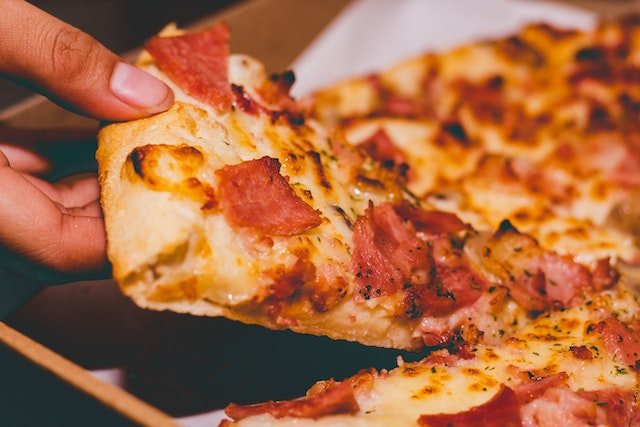
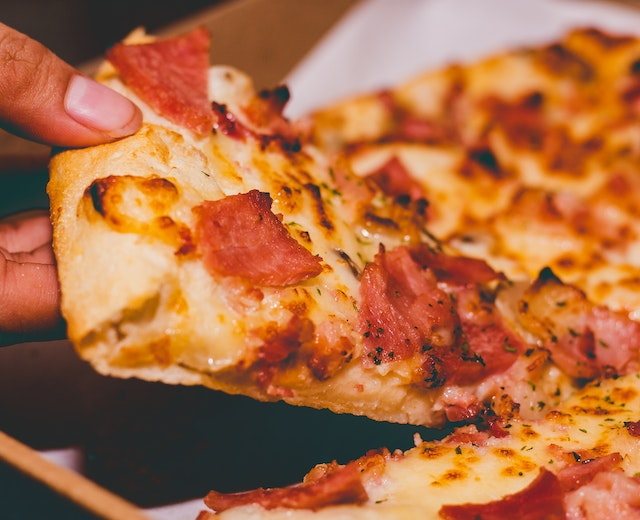
new image sizes

diff --git a/media_queries/00_responsive/index.html b/media_queries/00_responsive/index.html
@@ -24,8 +24,13 @@
             <p>Ah, la pizza, mi querido amigo! ¿Sabías que la pizza originalmente no tenía tomate? Sì, es verdad! En el siglo XVIII, la pizza se hacía con una mezcla de queso, ajo y aceite de oliva. Fue sólo después del descubrimiento de América que el tomate llegó button Europa y se incorporó button la pizza, convirtiéndose en el ingrediente principal que conocemos hoy en día. Pero, incluso entonces, la pizza con tomate no se popularizó hasta el siglo XIX, cuando los pobres de Nápoles comenzaron button añadir tomates button sus pizzas para darles un sabor más sabroso y satisfactorio. Desde entonces, la pizza ha evolucionado hasta convertirse en uno de los platos más populares y queridos en todo el mundo. ¿No es maravilloso?</p>
             <div class="img-fluid">
               <picture >
-                <source media="(min-width:768px)" srcset="./img/pizza_00_md.jpg">
+                <!-- imgs wxh px
+                  xs: 768x360
+                  md: 820x240
+                  xl:640x520
+                -->
                 <source media="(min-width:1024px)" srcset="./img/pizza_00_xl.jpg">
+                <source media="(min-width:768px)" srcset="./img/pizza_00_md.jpg">
                 <img src="./img/pizza_00_xs.jpg" alt="Pizza Caprese">
               </picture>
             </div>
